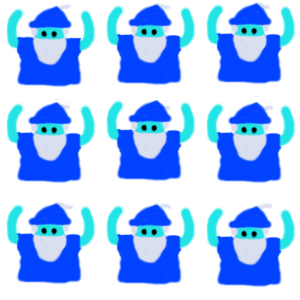
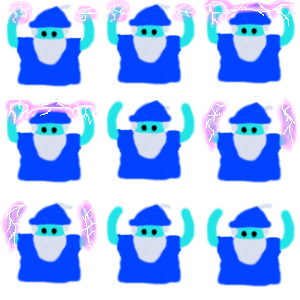
Добавлена анимация колдунства

diff --git a/Assets/Scripts/CharacterScript.cs b/Assets/Scripts/CharacterScript.cs
@@ -28,19 +28,33 @@ public class CharacterScript : MovingObject {
       }
    }
 
+
    private void EventManager_OnTileClicked(object sender, TileClickEvent gameEvent) {
       if (gameEvent.tile.Type == TileType.floor && IsReadyForSetGoal) {
          TrySetGoal(gameEvent.tile, (t) => t.Type == TileType.floor ? true : false);
-         IsCast = !IsCast;
          IsReadyForSetGoal = false;
       }
 
       if (gameEvent.tile.Type == TileType.floor && RuneForSet.HasValue()) {
-         var rune = GameManager.Pool.GetObject(RuneForSet);
-         var runescript = rune.GetComponent<RuneScript>();
-         runescript.Place(gameEvent.tile, LevelManager.GetWorldPosition(gameEvent.tile.Position), 10);
-         RuneForSet = null;
+         StartCoroutine(CastRune(0.4f, gameEvent));
       }
+   }
+
+   private IEnumerator CastRune(float castTime, TileClickEvent gameEvent) {
+      IsCast = true;
+
+      var lightning = GameManager.Pool.GetObject(PrefabNames.Lightning);
+      lightning.transform.position = LevelManager.GetWorldPosition(gameEvent.tile.Position);
+
+      yield return new WaitForSeconds(castTime);
+
+      GameManager.Pool.ReleaseGameObject(lightning);
+      IsCast = false;
+
+      var rune = GameManager.Pool.GetObject(RuneForSet);
+      var runescript = rune.GetComponent<RuneScript>();
+      runescript.Place(gameEvent.tile, LevelManager.GetWorldPosition(gameEvent.tile.Position), 10);
+      RuneForSet = null;
    }
 
    private bool IsCast {

diff --git a/Assets/Scripts/RuneScript.cs b/Assets/Scripts/RuneScript.cs
@@ -8,10 +8,10 @@ public class RuneScript : MonoBehaviour {
    protected string ChildRuneName;
 
    [SerializeField]
-   private float damage;
-
+   private float damage = 1f;
+   
    [SerializeField]
-   private float manaCost;
+   private float manaCost = 1f;
 
    public Tile Tile { get; private set; }
    public float Mana { get; private set; }
@@ -43,8 +43,9 @@ public class RuneScript : MonoBehaviour {
    public void Place(Tile tile, Vector3 worldPos, float mana) {
       Tile = tile;
       transform.position = worldPos;
-      MaxMana = mana;
+
       Mana = mana;
+      MaxMana = mana;
    }
 
    public void AfterActivated() {

diff --git a/Assets/Scripts/MonsterScript.cs b/Assets/Scripts/MonsterScript.cs
@@ -5,7 +5,7 @@ using System;
 public class MonsterScript : MovingObject {
 
    [SerializeField]
-   private float startHealth;
+   private float startHealth = 1f;
 
    // This function is called when the object becomes enabled and active
    private void OnEnable() {

diff --git a/Assets/Core/Const/PrefabNames.cs b/Assets/Core/Const/PrefabNames.cs
@@ -7,4 +7,5 @@ class PrefabNames {
    public const string RuneFire = "RuneFire";
    public const string FlameMini = "FlameMini";
    public const string Ghost1 = "Ghost1";
+   public const string Lightning = "Lightning";
 }
